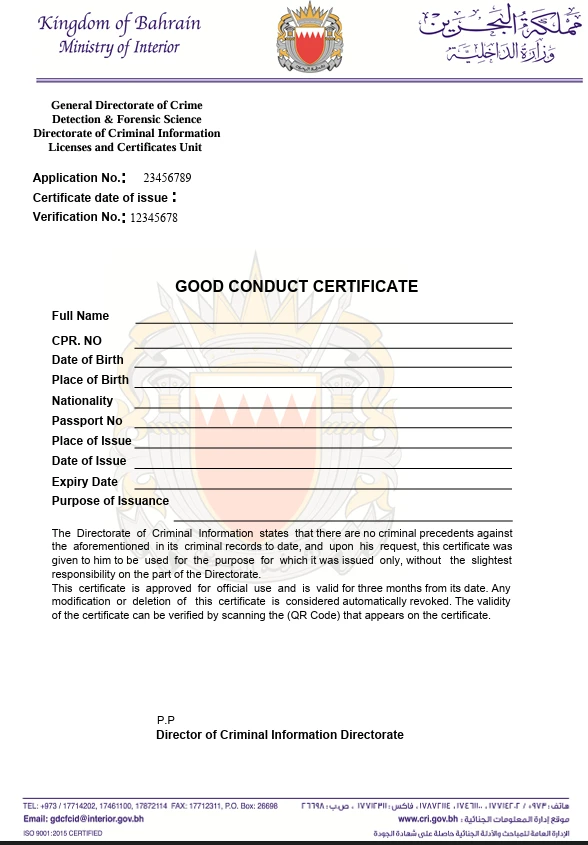
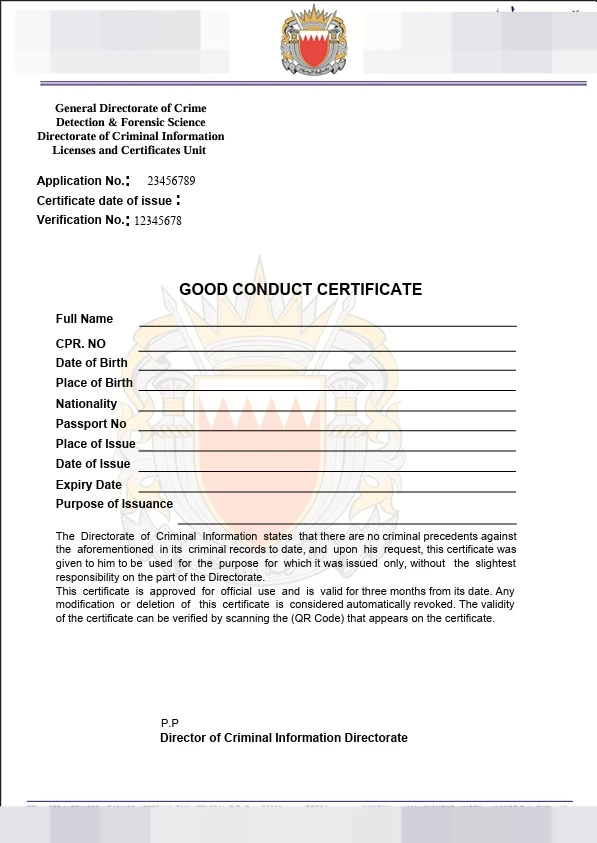
PCC: blurred-header certificate sample
Claude-Session: https://claude.ai/code/session_01Q8SfPFzKec2UT1Fop63zbA

diff --git a/ministry-services.html b/ministry-services.html
@@ -11626,7 +11626,7 @@ input, select, textarea {
           <article class="mlx-card"><div class="mlx-img" aria-hidden="true"><img src="assets/int-moi-truck.webp" alt="" loading="lazy" decoding="async" style="object-position:center 40%"></div><h3 class="mlx-t">Licensing &amp; Clearance</h3><ul class="mlx-rows"><li class="mlx-row"><span class="mlx-ico"><svg viewBox="0 0 24 24" aria-hidden="true"><rect x="3" y="6" width="18" height="12" rx="2"/><path d="M3 10h18M7 15h4"/></svg></span><span class="mlx-name">Driving license – renewal/update</span></li><li class="mlx-row"><span class="mlx-ico"><svg viewBox="0 0 24 24" aria-hidden="true"><circle cx="12" cy="12" r="9"/><path d="M3 12h18M12 3a14 14 0 0 1 0 18M12 3a14 14 0 0 0 0 18"/></svg></span><span class="mlx-name">International driving license</span></li><li class="mlx-row"><span class="mlx-ico"><svg viewBox="0 0 24 24" aria-hidden="true"><path d="M5 15l1.5-5A2 2 0 0 1 8.4 8.5h7.2a2 2 0 0 1 1.9 1.5L19 15"/><rect x="3.5" y="15" width="17" height="4" rx="1.5"/><circle cx="7.5" cy="19" r="1.3"/><circle cx="16.5" cy="19" r="1.3"/></svg></span><span class="mlx-name">Vehicle ownership transfer</span></li><li class="mlx-row"><span class="mlx-ico"><svg viewBox="0 0 24 24" aria-hidden="true"><path d="M5 15l1.5-5A2 2 0 0 1 8.4 8.5h7.2a2 2 0 0 1 1.9 1.5L19 15"/><rect x="3.5" y="15" width="17" height="4" rx="1.5"/><circle cx="7.5" cy="19" r="1.3"/><circle cx="16.5" cy="19" r="1.3"/></svg></span><span class="mlx-name">Vehicle passing &amp; annual registration renewal</span></li></ul></article>
           </div>
           <div class="pcc" id="pcc">
-            <a class="pcc-doc pcc-has" href="assets/moi-good-conduct.webp" target="_blank" rel="noopener"><img src="assets/moi-good-conduct.webp" alt="Sample Good Conduct Certificate issued by the Kingdom of Bahrain Ministry of Interior" width="588" height="845" loading="lazy" decoding="async"></a>
+            <a class="pcc-doc pcc-has" href="assets/moi-good-conduct.webp?v=2" target="_blank" rel="noopener"><img src="assets/moi-good-conduct.webp?v=2" alt="Sample Good Conduct Certificate issued by the Kingdom of Bahrain Ministry of Interior" width="597" height="844" loading="lazy" decoding="async"></a>
             <div class="pcc-copy">
               <span class="pcc-k">Clearance</span>
               <h3>Good Conduct Certificate / PCC</h3>
